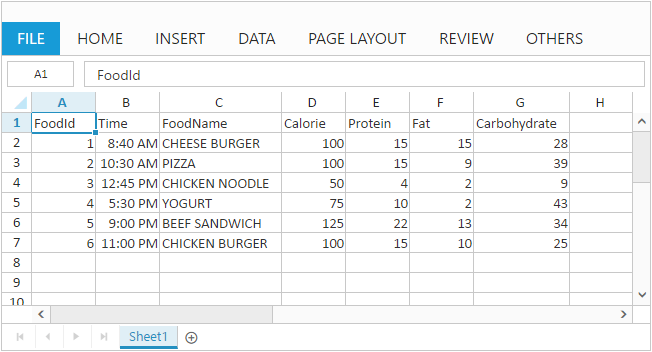
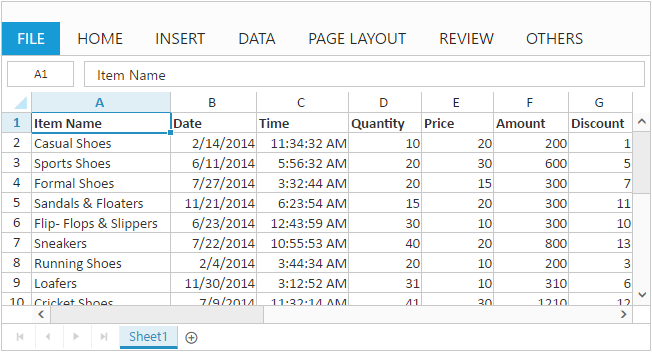
review changes for angular 2

diff --git a/angular-2/Spreadsheet/Getting-Started.md b/angular-2/Spreadsheet/Getting-Started.md
@@ -105,16 +105,16 @@ Now, this section explains how to populate JSON data to the Spreadsheet. You can
 {% highlight ts %}
 
     import {Component, ViewEncapsulation} from '@angular/core';
-    import {NorthwindService} from './services/northwind.service';
+    import { SpreadsheetService } from '../services/spreadsheet.service';
     @Component({
         selector: 'ej-app',
-  t     emplateUrl: 'app/app.component.html',  //give the path file for spreadsheet control html file.
-        providers:[NorthwindService]
+        templateUrl: 'app/app.component.html',  //give the path file for spreadsheet control html file.
+        providers:[SpreadsheetService]
     })
     export class AppComponent {
         public spreadData;
-        constructor(public northwindService: NorthwindService) {
-            this.spreadData = ej.DataManager(northwindService.getFoodInformation()).executeLocal(ej.Query().take(50).select("FoodId", "Time", "FoodName", "Calorie", "Protein", "Fat", "Carbohydrate"));
+        constructor(public SpreadsheetService: SpreadsheetService) {
+            this.spreadData = SpreadsheetService.getDefaultData();
      }
     }
 
@@ -133,7 +133,14 @@ Events can be bound to the controls using the event name within bracket [`()`]. 
 {% highlight html %}
 
     <ej-spreadsheet id="spreadsheet" [allowConditionalFormats]= true (loadComplete)= loadComplete($event)>
-
+      <e-sheets>
+            <e-sheet>
+                 <e-rangesettings>
+                    <e-rangesetting [dataSource]="spreadData" startCell="A1" [headerStyles]="{'font-weight':'bold'}"></e-rangesetting>
+                 </e-rangesettings>
+            </e-sheet>
+        </e-sheets>
+    </ej-spreadsheet>
 {% endhighlight %}
 
 To apply conditional formats for a range use [`setCFRule`](http://help.syncfusion.com/js/api/ejspreadsheet#methods:xlcformat-setcfrule "setCFRule") method. The following code example illustrates this,
@@ -141,18 +148,22 @@ To apply conditional formats for a range use [`setCFRule`](http://help.syncfusio
 {% highlight ts %}
 
     import {Component, ViewEncapsulation} from '@angular/core';
-    import {NorthwindService} from './services/northwind.service';
+    import { SpreadsheetService } from '../services/spreadsheet.service';
 
     @Component({
         selector: 'ej-app',
         templateUrl: 'app/app.component.html',  //give the path file for spreadsheet control html file.
-        providers:[NorthwindService]
+        providers:[SpreadsheetService]
     })
 
     export class AppComponent {
+        public spreadData;
+        constructor(public SpreadsheetService: SpreadsheetService) {
+            this.spreadData = SpreadsheetService.getDefaultData();
+     }
         loadComplete(event) {
             let xlObj = $("#spreadsheet").data("ejSpreadsheet");
-            xlObj.XLCFormat.setCFRule({ "action": "equalto", "inputs": ["100"], "color":   "redft", "range": "D1:D7" });
+            xlObj.XLCFormat.setCFRule({ "action": "greaterthan", "inputs": ["10"], "color": "redft", "range": "D2:D8" });
         }
     }
 
@@ -168,9 +179,34 @@ The Spreadsheet can save its data, style, format into an excel file. To enable s
 
 {% highlight html %}
 
-    <ej-spreadsheet id="spreadsheet"  exportSettings.excelUrl="http://js.syncfusion.com/demos/ejservices/api/JSXLExport/ExportToExcel" >
+    <ej-spreadsheet id="spreadsheet"  exportSettings.excelUrl="http://js.syncfusion.com/demos/ejservices/api/Spreadsheet/ExcelExport" >
+    <e-sheets>
+            <e-sheet>
+                 <e-rangesettings>
+                    <e-rangesetting [dataSource]="spreadData" startCell="A1" [headerStyles]="{'font-weight':'bold'}"></e-rangesetting>
+                 </e-rangesettings>
+            </e-sheet>
+        </e-sheets>
     </ej-spreadsheet>
 
+{% endhighlight %}
+
+{% highlight ts %}
+
+    import {Component, ViewEncapsulation} from '@angular/core';
+    import { SpreadsheetService } from '../services/spreadsheet.service';
+    @Component({
+        selector: 'ej-app',
+        templateUrl: 'app/app.component.html',  //give the path file for spreadsheet control html file.
+        providers:[SpreadsheetService]
+    })
+    export class AppComponent {
+        public spreadData;
+        constructor(public SpreadsheetService: SpreadsheetService) {
+            this.spreadData = SpreadsheetService.getDefaultData();
+     }
+    }
+  
 {% endhighlight %}
 
 Use shortcut [`Ctrl + S`](http://help.syncfusion.com/js/spreadsheet/keyboard-shortcuts "Ctrl + S") to save Spreadsheet as excel file.
